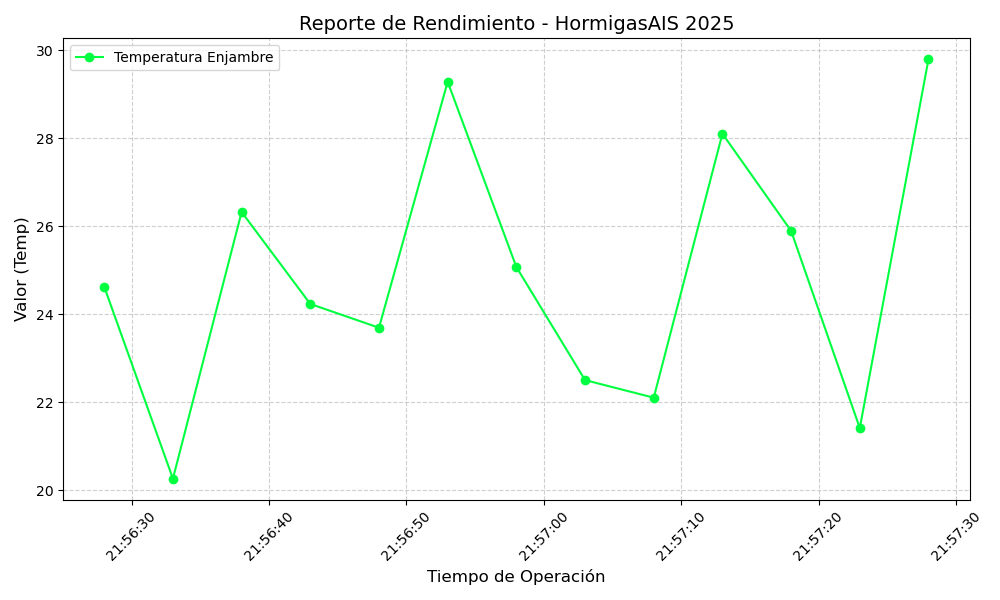
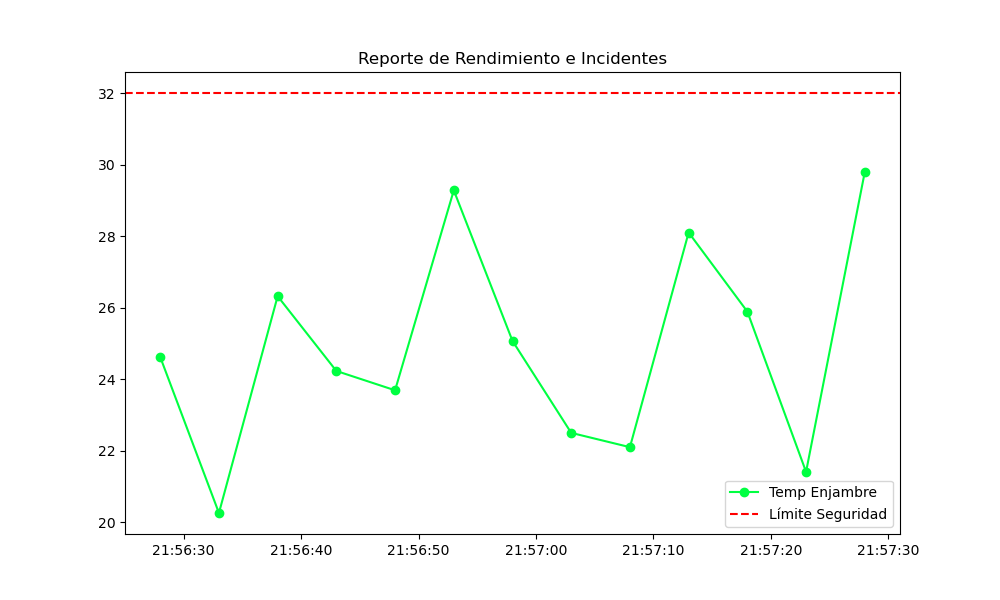
🤖 Centinela: Sincronización completa del ecosistema [2025-12-23 23:05]

diff --git a/swarm/manager_alpha/generador_reporte.py b/swarm/manager_alpha/generador_reporte.py
@@ -7,39 +7,40 @@ matplotlib.use('Agg')
 FILE_CSV = "AUDITORIA_HORMIGAS_2025.csv"
 OUTPUT_IMAGE = "REPORTE_RENDIMIENTO_HORMIGAS.png"
 ALERTA_FILE = "ALERTA_CRITICA.md"
-UMBRAL_MAX = 32.0  # Si la temperatura supera esto, se activa la alarma
+UMBRAL_MAX = 32.0
 
 def generar_grafica():
     if not os.path.exists(FILE_CSV): return
 
     try:
+        # Cargamos el CSV y forzamos a que la columna de valor sea numérica
         df = pd.read_csv(FILE_CSV)
+        df['DATO_VALOR'] = pd.to_numeric(df['DATO_VALOR'], errors='coerce')
         df['FECHA_HORA'] = pd.to_datetime(df['FECHA_HORA'])
         
-        # --- LÓGICA DE ALERTA ---
+        # Eliminamos filas que no tengan números válidos
+        df = df.dropna(subset=['DATO_VALOR'])
+
         max_temp = df['DATO_VALOR'].max()
+        
         if max_temp > UMBRAL_MAX:
             with open(ALERTA_FILE, "w") as f:
                 f.write(f"# ⚠ ALERTA CRÍTICA DETECTADA\n")
-                f.write(f"El enjambre ha superado el umbral de seguridad.\n\n")
-                f.write(f"**Temperatura Máxima Detectada:** {max_temp}°C\n")
-                f.write(f"**Fecha del Suceso:** {df.iloc[-1]['FECHA_HORA']}\n")
-            print(f"🔥 ¡ALERTA! Temperatura de {max_temp}°C detectada.")
+                f.write(f"**Temperatura Máxima:** {max_temp}°C\n")
+                f.write(f"**Fecha:** {df.iloc[-1]['FECHA_HORA']}\n")
+            print(f"🔥 ¡ALERTA! {max_temp}°C detectada.")
         else:
-            if os.path.exists(ALERTA_FILE):
-                os.remove(ALERTA_FILE) # Limpiar alerta si ya todo está normal
-                print("✅ Sistema operando en rangos normales.")
+            if os.path.exists(ALERTA_FILE): os.remove(ALERTA_FILE)
 
-        # --- DIBUJAR GRÁFICA ---
         plt.figure(figsize=(10, 6))
-        plt.plot(df['FECHA_HORA'], df['DATO_VALOR'], marker='o', color='#00ff41')
-        plt.axhline(y=UMBRAL_MAX, color='red', linestyle='--', label='Límite de Seguridad')
+        plt.plot(df['FECHA_HORA'], df['DATO_VALOR'], marker='o', color='#00ff41', label='Temp Enjambre')
+        plt.axhline(y=UMBRAL_MAX, color='red', linestyle='--', label='Límite Seguridad')
         plt.title('Reporte de Rendimiento e Incidentes')
         plt.legend()
         plt.savefig(OUTPUT_IMAGE)
-        print(f"✅ Reporte actualizado.")
+        print(f"✅ Reporte actualizado sin errores de formato.")
     except Exception as e:
-        print(f"❌ Error: {e}")
+        print(f"❌ Error crítico: {e}")
 
 if __name__ == "__main__":
     generar_grafica()
